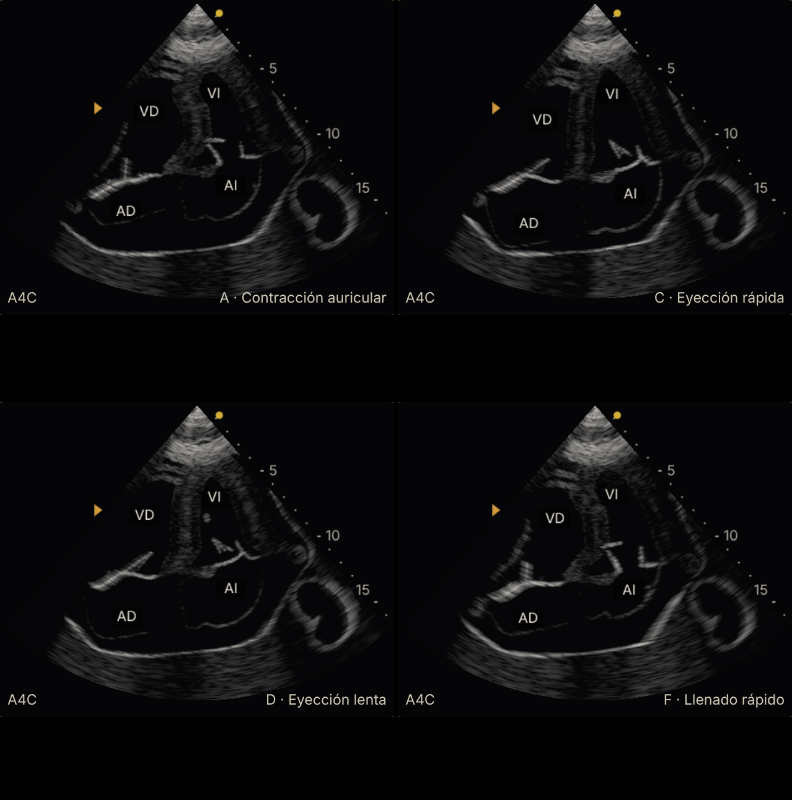
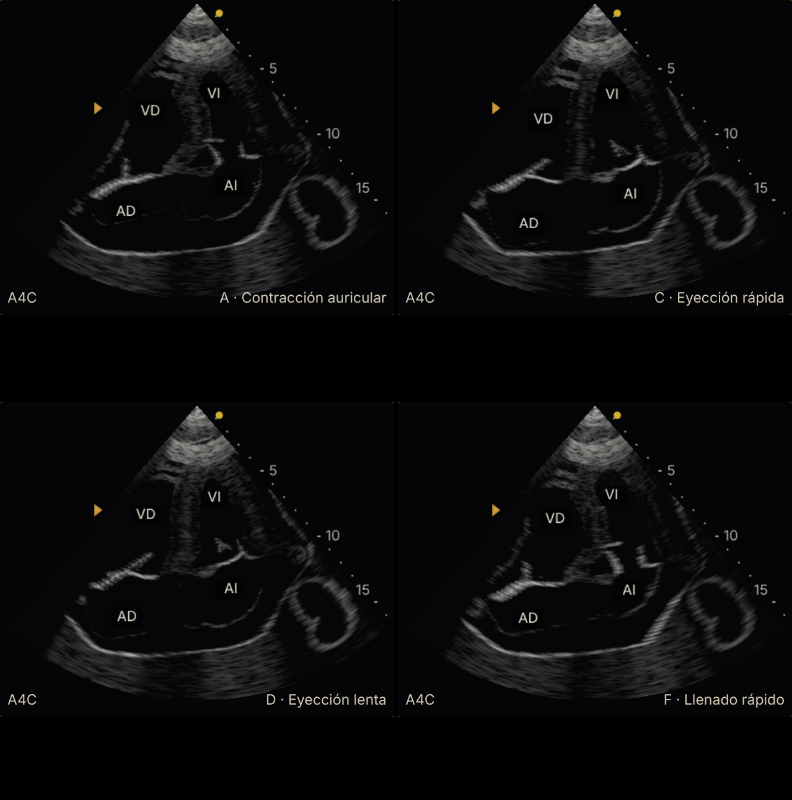
M3: McConnell visible en el TEP (pared libre media quieta, ápex que se contrae), fuente McConnell 1996

diff --git a/autonomo/bloques/mv-eco/capturas-realismo/mov/cifras-mov-doppler-parcial.md b/autonomo/bloques/mv-eco/capturas-realismo/mov/cifras-mov-doppler-parcial.md
@@ -1,11 +1,16 @@
 # Cifras de la app en cada captura de movimiento y Doppler (dibujo 2, 390 px)
 Origen: «monitor» = texto que enseña la app (#cv-l-vi, #cv-d-resultado, #cv-m-resultado, #cv-l-lat); «derivado» = cuenta sobre cifras del monitor; «anatomia.mjs» = tapseDeLatido(motor.ultimo) porque la app solo lo enseña al poner calibres.
 
-## d-it-cw-tep (tep, g=1, preajuste regtricus)
-- Resultado del Doppler: Insuficiencia tricuspídea · chorro · ángulo haz-flujo 17° (se mide v·cos θ) Chorro sistólico hacia la AD (se aleja de la sonda): en la muestra, vIT 2,48 m/s · ITV 66,1 cm PSAP estimada = 4·vIT² + PVC = 36 mmHg (vIT corregida por el ángulo: 2,59 m/s; sin corregir sería 34) (normal: vIT ≤ 2,8 m/s; > 3,4 m/s sugiere hipertensión pulmonar, ESC/ERS 2022). v = √(ΔP VD−AD / 4) con la presión del motor; el espectro muestra v·cos θ (el haz no está alineado del todo con el chorro) y la PSAP se corrige dividiendo por cos θ, como al alinear el haz. Ilustrativo.  _[monitor]_
-- Medidas internas (E, A, E/A, TDE/DT, pico, ITV): {"tipo":"regurgitacion","pico":247.59,"itv":66.11,"vIT":2.48,"psap":34.12}  _[monitor interno de la app (__eco.doppler.medidas); e′ no la da hoy]_
-- Último latido: PA 65/53 (PAM 59) · FC 118 · GC 2.3 L/min · PVC 10  _[monitor]_
-- TAPSE: 6.8 mm  _[anatomia.mjs]_
+## mov-tep-a4c (tep, g=1, a4c; recortes izquierda→derecha, arriba→abajo: A, C, D, F)
+- A · telediástole: VI 29 mL · 2 mmHg · VD 219 mL · 18 mmHg · Ao 57 mmHg · AP 23 · rótulo «A · Contracción auricular»  _[monitor]_
+- C · sístole media: VI 39 mL · 63 mmHg · VD 209 mL · 28 mmHg · Ao 62 mmHg · AP 28 · rótulo «C · Eyección rápida»  _[monitor]_
+- D · fin de sístole: VI 25 mL · 64 mmHg · VD 199 mL · 31 mmHg · Ao 64 mmHg · AP 39 · rótulo «D · Eyección lenta»  _[monitor]_
+- F · llenado rápido: VI 43 mL · 3 mmHg · VD 219 mL · 18 mmHg · Ao 56 mmHg · AP 21 · rótulo «F · Llenado rápido»  _[monitor]_
+- VTD (VI, máximo del latido): 45 mL  _[motor.onda (volumen del VI)]_
+- VTS (VI, mínimo del latido): 24 mL  _[motor.onda (volumen del VI)]_
+- FEVI: 47 %  _[derivado (VTD−VTS)/VTD]_
+- Último latido: PA 65/53 (PAM 59) · FC 119 · GC 2.3 L/min · PVC 9  _[monitor]_
+- TAPSE: 6.5 mm  _[anatomia.mjs]_
 
 ## Errores de consola
 ninguno

diff --git a/autonomo/bloques/mv-eco/paso6/m3-informe.md b/autonomo/bloques/mv-eco/paso6/m3-informe.md
@@ -1,0 +1,23 @@
+# M3 · McConnell visible (TEP) — informe
+**Fuente** (PubMed 8752195, https://pubmed.ncbi.nlm.nih.gov/8752195/, resumen leído): McConnell 1996, Am J Cardiol 78:469-73. TEP agudo: pared libre media
+−0,2 ± 0,8 mm (acinesia), ápex 5,7 ± 0,8 mm (normal, p = NS); en la HP primaria, anormal en todas las regiones.
+
+**Valores (`regionalDe`, TEP g=1)**: antes basal 0,08 · media 0,08 · ápex 0,58. Ahora basal 0,08 (0,5 × FEVD, ilustrativo) · media 0,03 (0,15 × FEVD) · ápex 0,92
+(déficit ×0,1). HP crónica sin cambio. Constantes con la cita en contrato.mjs. Nuevo `mcconnellDe(motor)` (intensidad 0-1 para el dibujo).
+
+**Dibujo 2** (ajuste `mcconnell`, corazon-geo.mjs): zona de la pared libre media (0,45 del largo) con el endocardio fijado en el radio de la telediástole
+(el tabique de aquel instante llega por `septoTd`, formas.mjs); el ápex cierra el 50 % de su luz en sístole. El volumen del motor se conserva (cuadrática exacta en A).
+
+**Desplazamiento telediástole→telesístole, mm hacia dentro** (`herramientas/m3-mcconnell.mjs`, ángulo 2,4 rad, TEP g=1; antes = sin M3):
+| | base | pared media | ápex |
+|---|---|---|---|
+| antes | 2,27 | 0,02 | 0,20 |
+| después | 2,16 | 0,35 | 5,67 |
+Media/ápex = 0,06 (≤0,3). Otros ángulos g=1: 2,8 rad → 0,12 / 4,67; 3,2 rad → −0,14 / 2,13. g=0,5: media −1,5, ápex 8,1 (antes −6,6 / 3,9).
+**Cifra del motor**: en g=1 el VD solo se vacía ~19 mL (FEVD 8 %); el ápex se mueve 5,7 mm por el dibujo (cierre del 50 % de la luz apical), no por el motor. Es ilustrativo y está dicho.
+
+**Pruebas**: `regional.test.mjs` +2 (ápex ≥0,7 y media ≤0,3×ápex; dibujo 2: media ≤0,3×ápex, ápex ≥5 mm, media ≤2 mm) en verde. Geometría `--dibujo nuevo` 0/147.
+**Capturas**: `autonomo/bloques/mv-eco/capturas-realismo/mov/mov-tep-a4c.png` (A, C, D, F) y `geometria-capturas/tep-g1-a4c.png`.
+
+**No comprobado / riesgo**: en la captura a 390 px la pared libre del VD apenas se ve (imagen oscura): la lectura visual de los 5,7 mm la ha de confirmar el profesor,
+no he medido px sobre el PNG. Solo el A4C; foco VD y otros cortes no medidos. En g=0,5 la media queda en −1,5 mm (residuo del tabique). Juez de caché pide versión (la sube el director).
